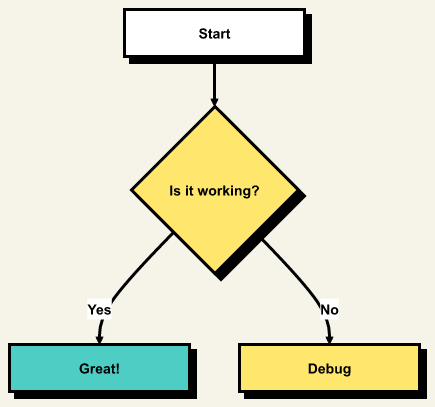
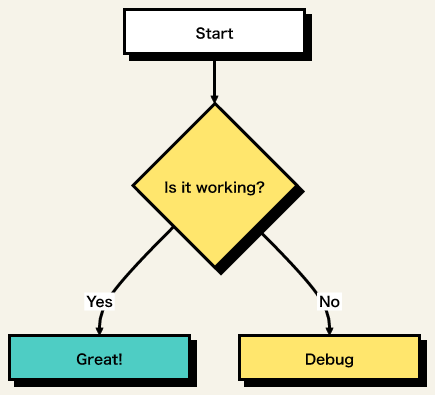
docs(theme): measure gallery labels with native fonts

diff --git a/docs/rendering/theme-gallery/README.md b/docs/rendering/theme-gallery/README.md
@@ -24,10 +24,13 @@ separate facts reported by the installed catalog and each render's metadata.
 | **One Dark · Class** | **Gruvbox Light · XY Chart** |
 | ![One Dark Class diagram with dark surfaces and a blue relationship](one-dark.png) | ![Gruvbox Light XY Chart with a cream canvas, teal bars and an olive line](gruvbox-light.png) |
 
-These previews were exported as native PNG on macOS from the included sources and settings.
-Host font resolution affects the result; the commands below reproduce the workflow with the
-matching runtime. Pixel identity across hosts is not guaranteed. The shared Flowchart source
-and settings let you compare Brutalist and Cyberpunk without changing the diagram.
+These previews were exported as native PNG on macOS with `--font-measurement native` from
+the included sources and settings. Measurement and painting share the same operation's font
+context. Font-agnostic deterministic estimates can be narrower than the final host glyphs;
+for example, Spotless's semibold note needs native measurement to fit this host's text.
+The commands below reproduce the workflow with a matching runtime, while pixel identity
+across hosts is not guaranteed. The shared Flowchart source and settings let you compare
+Brutalist and Cyberpunk without changing the diagram.
 
 All presets remain alpha, and the catalog has no qualified output cells. Dedicated design
 scope records family-specific styling, while base styling records a shared appearance.
@@ -86,16 +89,17 @@ font installation and rasterization remain host-dependent.
 
 ## Native CLI
 
-From this directory, with a matching PNG-capable CLI, reproduce all six images:
+From this directory, with a CLI built with PNG, native-fonts, and system-fonts capabilities,
+reproduce all six images:
 
 ```text
 merman-cli capabilities
-merman-cli render brutalist.mmd --theme-preset brutalist --config-file brutalist.config.json -f png -o brutalist.png
-merman-cli render ghibli.mmd --theme-preset ghibli -f png -o ghibli.png
-merman-cli render spotless.mmd --theme-preset spotless -f png -o spotless.png
-merman-cli render brutalist.mmd --theme-preset cyberpunk --config-file brutalist.config.json -f png -o cyberpunk.png
-merman-cli render one-dark.mmd --theme-preset one-dark --config-file one-dark.config.json -f png -o one-dark.png --theme-report one-dark.report.json
-merman-cli render gruvbox-light.mmd --theme-preset gruvbox-light -f png -o gruvbox-light.png
+merman-cli render brutalist.mmd --theme-preset brutalist --config-file brutalist.config.json --font-measurement native -f png -o brutalist.png
+merman-cli render ghibli.mmd --theme-preset ghibli --font-measurement native -f png -o ghibli.png
+merman-cli render spotless.mmd --theme-preset spotless --font-measurement native -f png -o spotless.png
+merman-cli render brutalist.mmd --theme-preset cyberpunk --config-file brutalist.config.json --font-measurement native -f png -o cyberpunk.png
+merman-cli render one-dark.mmd --theme-preset one-dark --config-file one-dark.config.json --font-measurement native -f png -o one-dark.png --theme-report one-dark.report.json
+merman-cli render gruvbox-light.mmd --theme-preset gruvbox-light --font-measurement native -f png -o gruvbox-light.png
 ```
 
 Use `-f svg -o brutalist.svg` or `-f pdf -o brutalist.pdf` with the same source, preset, and
@@ -104,6 +108,12 @@ automatically. `--theme-report` writes the actual render's evidence separately f
 `--theme-portability require-portable` enforces the renderer's strict policy. These host-font
 examples do not meet that strict policy. Web supplies SVG; Playground's PNG/JPEG export uses
 browser Canvas. Check the loaded artifact for available outputs.
+
+For a controlled font set, replace `--font-measurement native` with
+`--font-file /path/to/regular.ttf --font-file /path/to/bold.ttf --font-system off`.
+Explicit font files select native measurement and painting together. Use the appropriate
+weights and glyph coverage for the recipe. See the [host text measurement guide](../../bindings/HOST_TEXT_MEASUREMENT.md)
+for native contexts and browser measurement callbacks.
 
 Font stacks name host fonts and do not embed or download them. Open Sans and Noto Sans SC
 are Ghibli's preferred fonts, with a generic sans-serif fallback. Text measurements and font

diff --git a/CHANGELOG.md b/CHANGELOG.md
@@ -12,7 +12,7 @@ Apply reusable visual designs through Rust, Web, native CLI, or the Playground. 
 
 Brutalist, Spotless, Cyberpunk, and Ghibli draw their visual design references from [Modern Mermaid by gotoailab](https://github.com/gotoailab/modern_mermaid). Thanks to the Modern Mermaid Team for those designs. Merman adapts selected visual mechanisms into typed recipes with its own rendering and family coverage; the [gallery's design references](docs/rendering/theme-gallery/README.md#design-references-and-license) record the pinned source and retained MIT notice.
 
-These are real Merman native PNG exports. The [six-theme gallery](docs/rendering/theme-gallery/README.md) includes every source, configuration, and reproduction command.
+These are real Merman native PNG exports, with native font measurement sharing the painting font context to size labels. The [six-theme gallery](docs/rendering/theme-gallery/README.md) includes every source, configuration, and reproduction command.
 
 | Brutalist · Flowchart | Ghibli · Pie |
 | --- | --- |
